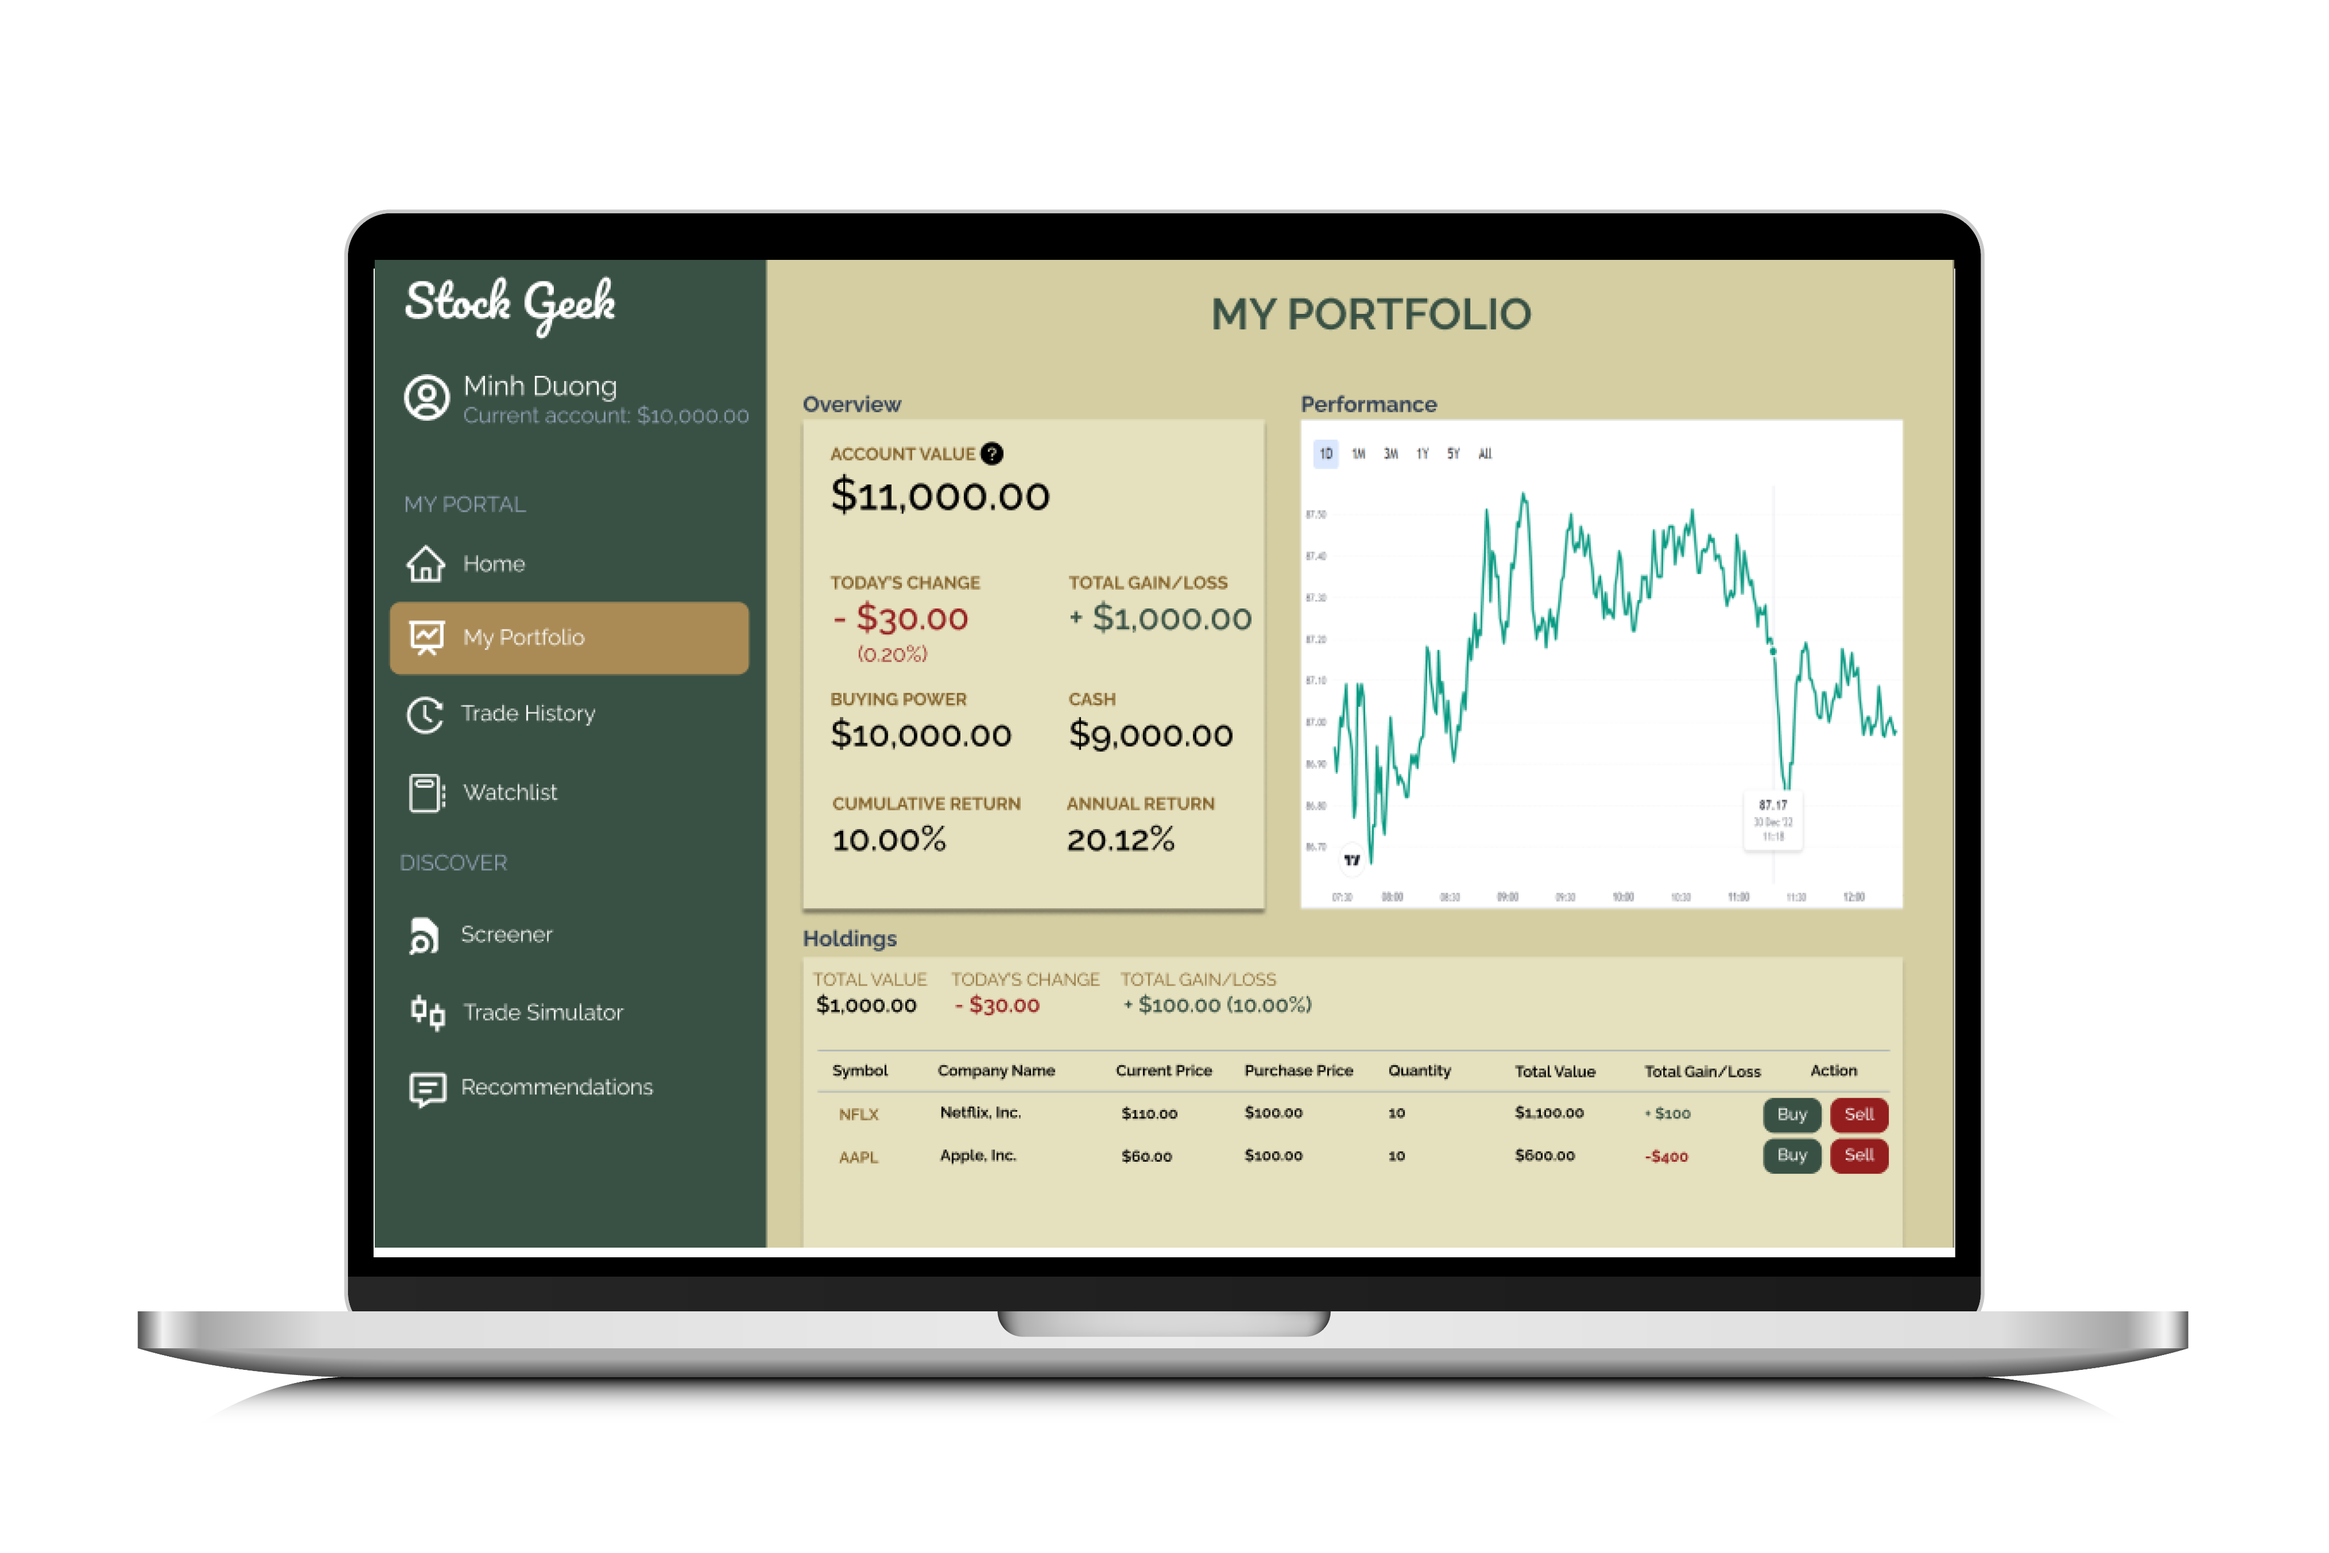
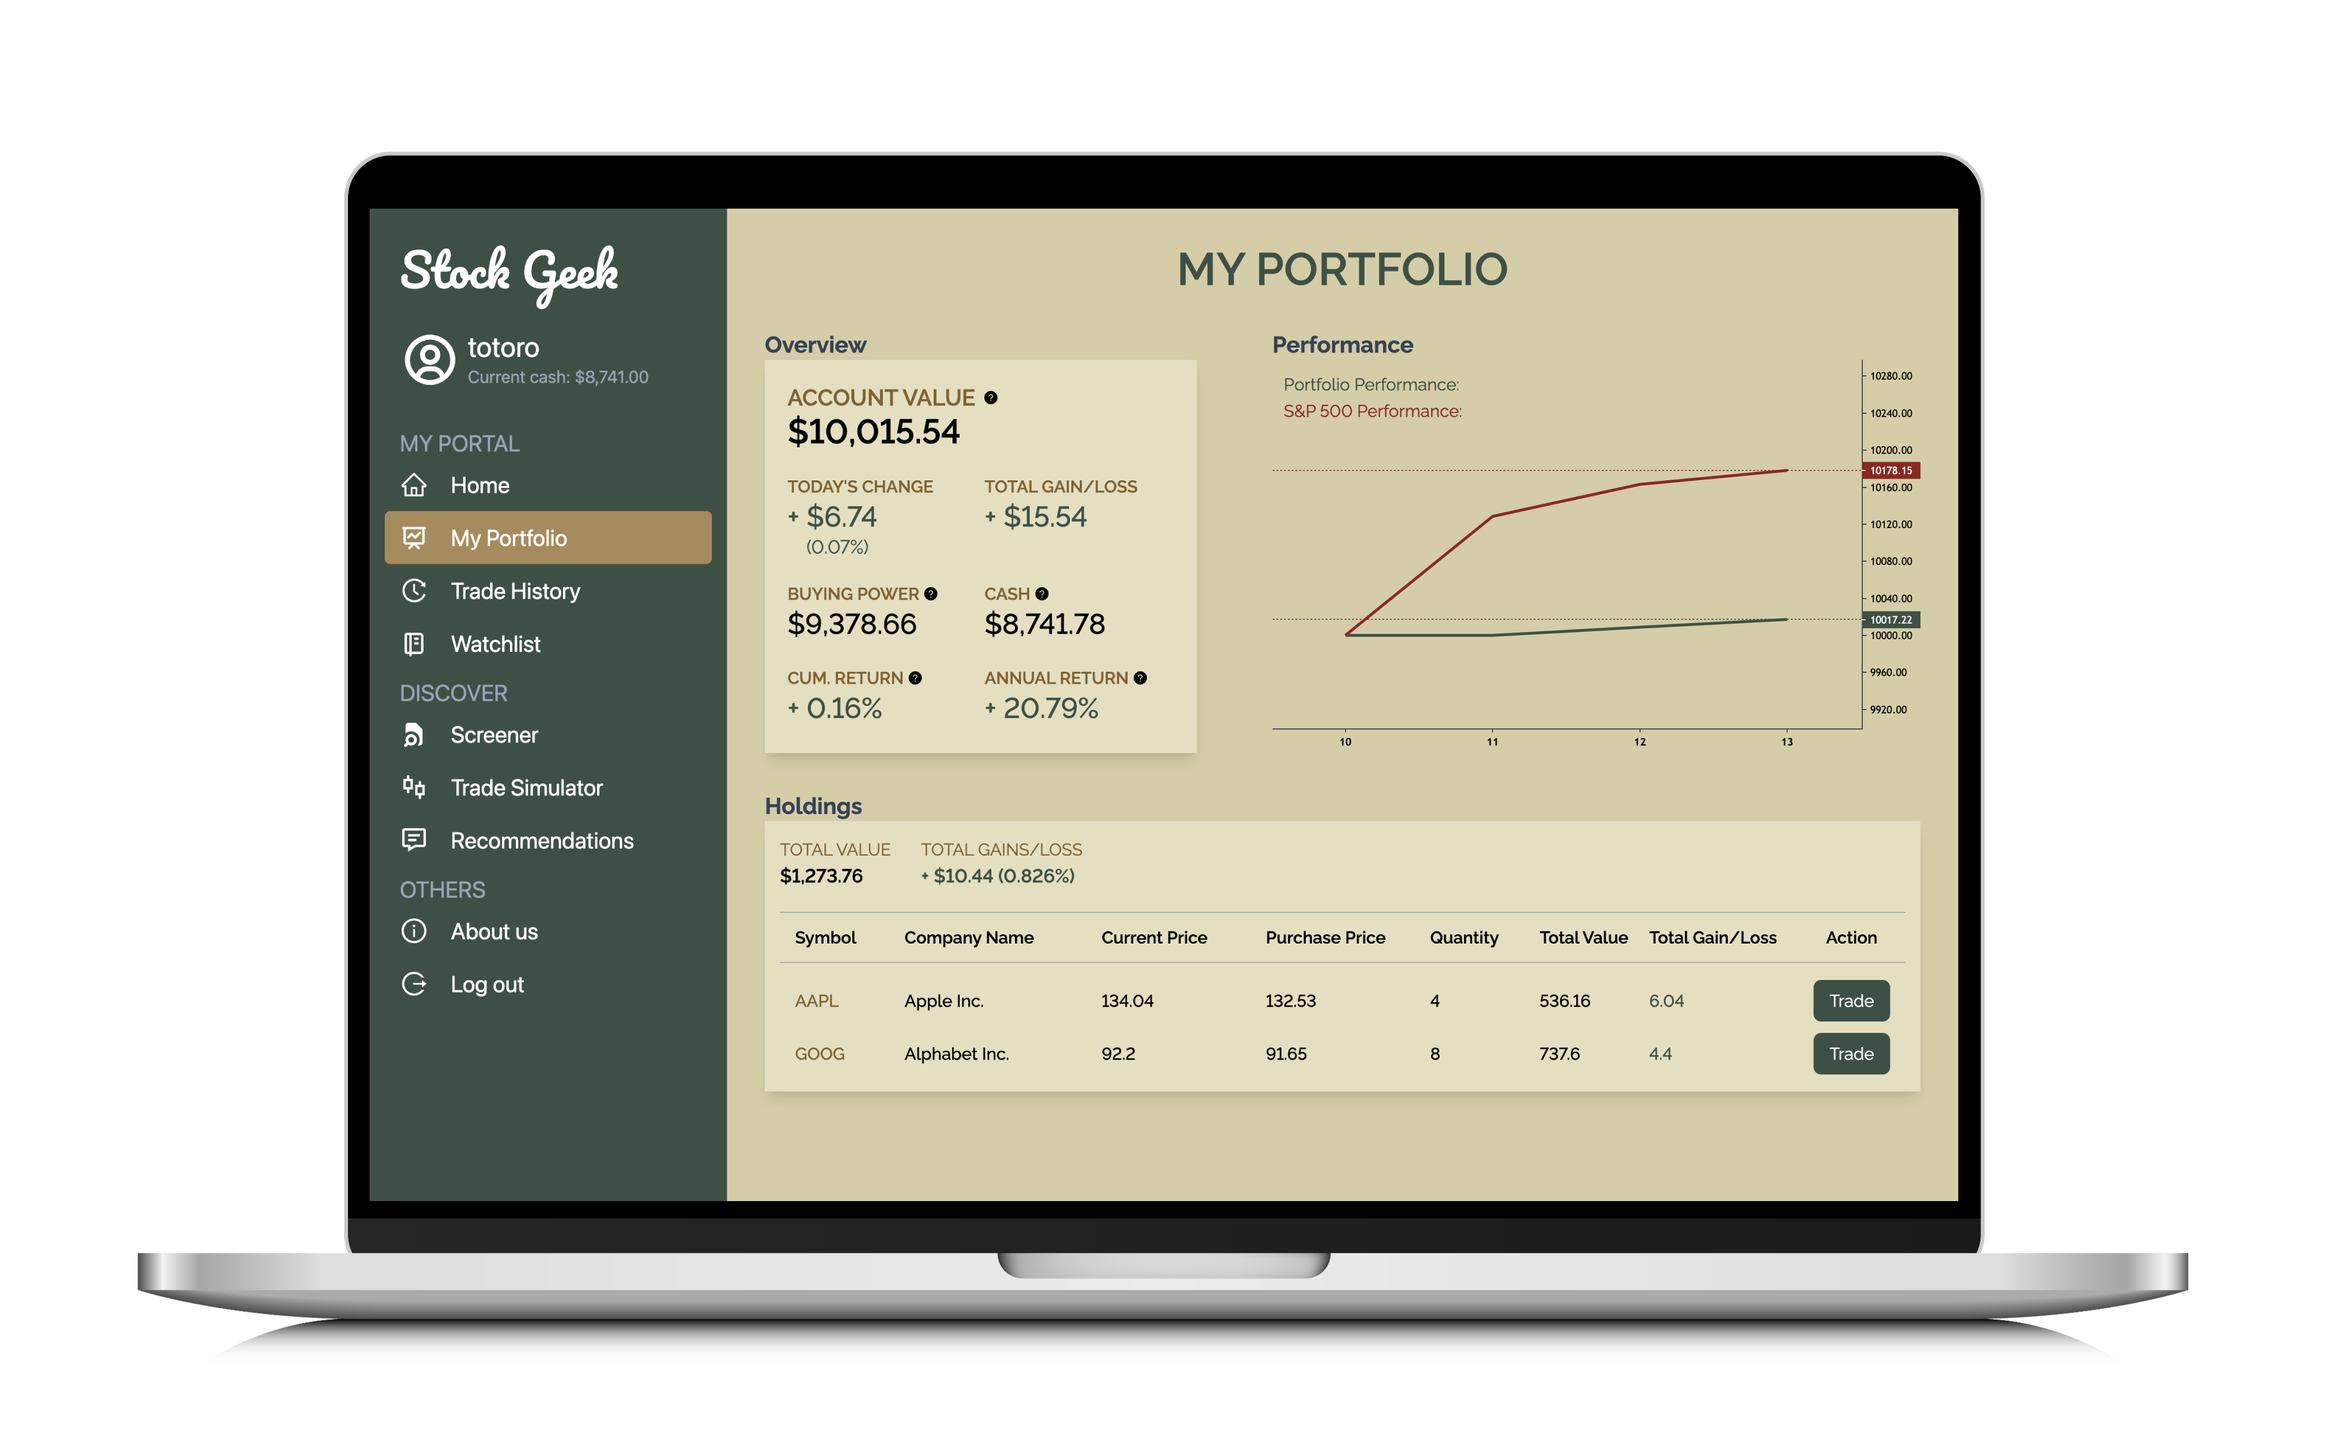
Finished Updating Pictures

diff --git a/src/components/TradeOptions/TradeOptions.tsx b/src/components/TradeOptions/TradeOptions.tsx
@@ -29,6 +29,12 @@ const errorMessage = {
   MARKET_CLOSED: "The market is currently closed. Please try again later."
 }
 
+const AccountInfoHelper = {
+  accountValue: "Displays the total current value of your portfolio.",
+  buyingPower: "The total value of your cash and margin accounts that can be used to make trades.\nCalculated as: Cash + 50% (Long Stocks) - 150% (Shorted Stocks) (Investopedia)",
+  cash: 'Total amount of cash available for making trades.',
+}
+
 const TradeOptions: NextComponentType<any, any, PropsInterface> = ({ onPreview }) => {
   // Route
   const router = useRouter();
@@ -134,7 +140,11 @@ const TradeOptions: NextComponentType<any, any, PropsInterface> = ({ onPreview }
         <div
           className="w-2/5"
         >
-          <AccountInformation name="AccountValue" value={userCash + holdingsValue} />
+          <AccountInformation 
+            name="Account Value" 
+            value={userCash + holdingsValue} 
+            helper={AccountInfoHelper.accountValue}  
+          />
         </div>
 
         {/* Buying Power */}
@@ -144,6 +154,7 @@ const TradeOptions: NextComponentType<any, any, PropsInterface> = ({ onPreview }
           <AccountInformation
             name="Buying Power"
             value={userCash + holdingsValue / 2}
+            helper={AccountInfoHelper.accountValue}  
           />
         </div>
 
@@ -154,6 +165,7 @@ const TradeOptions: NextComponentType<any, any, PropsInterface> = ({ onPreview }
           <AccountInformation
             name="Cash"
             value={userCash}
+            helper={AccountInfoHelper.accountValue}  
           />
         </div>
       </div>

diff --git a/src/components/TradeOptions/AccountInformation/AccountInformation.tsx b/src/components/TradeOptions/AccountInformation/AccountInformation.tsx
@@ -1,13 +1,17 @@
 import type { NextComponentType } from 'next'
-import React from 'react'
+import { useState } from 'react'
 import { AiFillQuestionCircle } from 'react-icons/ai'
 
 interface PropsInterface {
   name: string;
   value: number;
+  helper?: string;
 }
 
-const AccountInformation: NextComponentType<any, any, PropsInterface> = ({ name, value }) => {
+const AccountInformation: NextComponentType<any, any, PropsInterface> = ({ name, value, helper = '' }) => {
+
+  const [openHelper, setOpenHelper] = useState(false);
+
   return (
     <div
       className="flex flex-col"
@@ -20,14 +24,32 @@ const AccountInformation: NextComponentType<any, any, PropsInterface> = ({ name,
         >
           {name}
         </p>
-        <AiFillQuestionCircle />
+        {helper &&
+          <div
+            className="flex items-center"
+            onMouseMove={() => setOpenHelper(true)}
+            onMouseLeave={() => setOpenHelper(false)}
+          >
+            <AiFillQuestionCircle />
+            <div
+              className="relative"
+            >
+              {openHelper &&
+                <div
+                  className="absolute z-10 w-80 bg-beige-300 border rounded-lg p-2"
+                >
+                  {helper}
+                </div>
+              }
+            </div>
+          </div>
+        }
       </div>
       <p
         className="font-raleway text-xl"
       >
         {`$${value.toLocaleString('en-US')}`}
       </p>
-
     </div>
   )
 }

diff --git a/src/components/HoldingsInformation/HoldingsRow/HoldingsRow.tsx b/src/components/HoldingsInformation/HoldingsRow/HoldingsRow.tsx
@@ -61,7 +61,7 @@ const HoldingsRow: NextComponentType<any, any, PropsInterface> = ({ symbol, comp
         <h3
           className={`${cellTextClass}`}
         >
-          {purchasePrice.toLocaleString('en-US')}
+          {purchasePrice.toLocaleString('en-US', { maximumFractionDigits: 2})}
         </h3>
       </div>
       <div
@@ -79,7 +79,7 @@ const HoldingsRow: NextComponentType<any, any, PropsInterface> = ({ symbol, comp
         <h3
           className={`${cellTextClass}`}
         >
-          {totalValue.toLocaleString("en-US")}
+          {totalValue.toLocaleString("en-US", { maximumFractionDigits: 2})}
         </h3>
       </div>
       <div
@@ -88,7 +88,7 @@ const HoldingsRow: NextComponentType<any, any, PropsInterface> = ({ symbol, comp
         <h3
           className={`${cellTextClass} ${totalChange >=  0 ? 'text-green-700' : 'text-red-700'}`}
         >
-          {totalChange.toLocaleString('en-US')}
+          {totalChange.toLocaleString('en-US', { maximumFractionDigits: 2})}
         </h3>
       </div>
       <div
